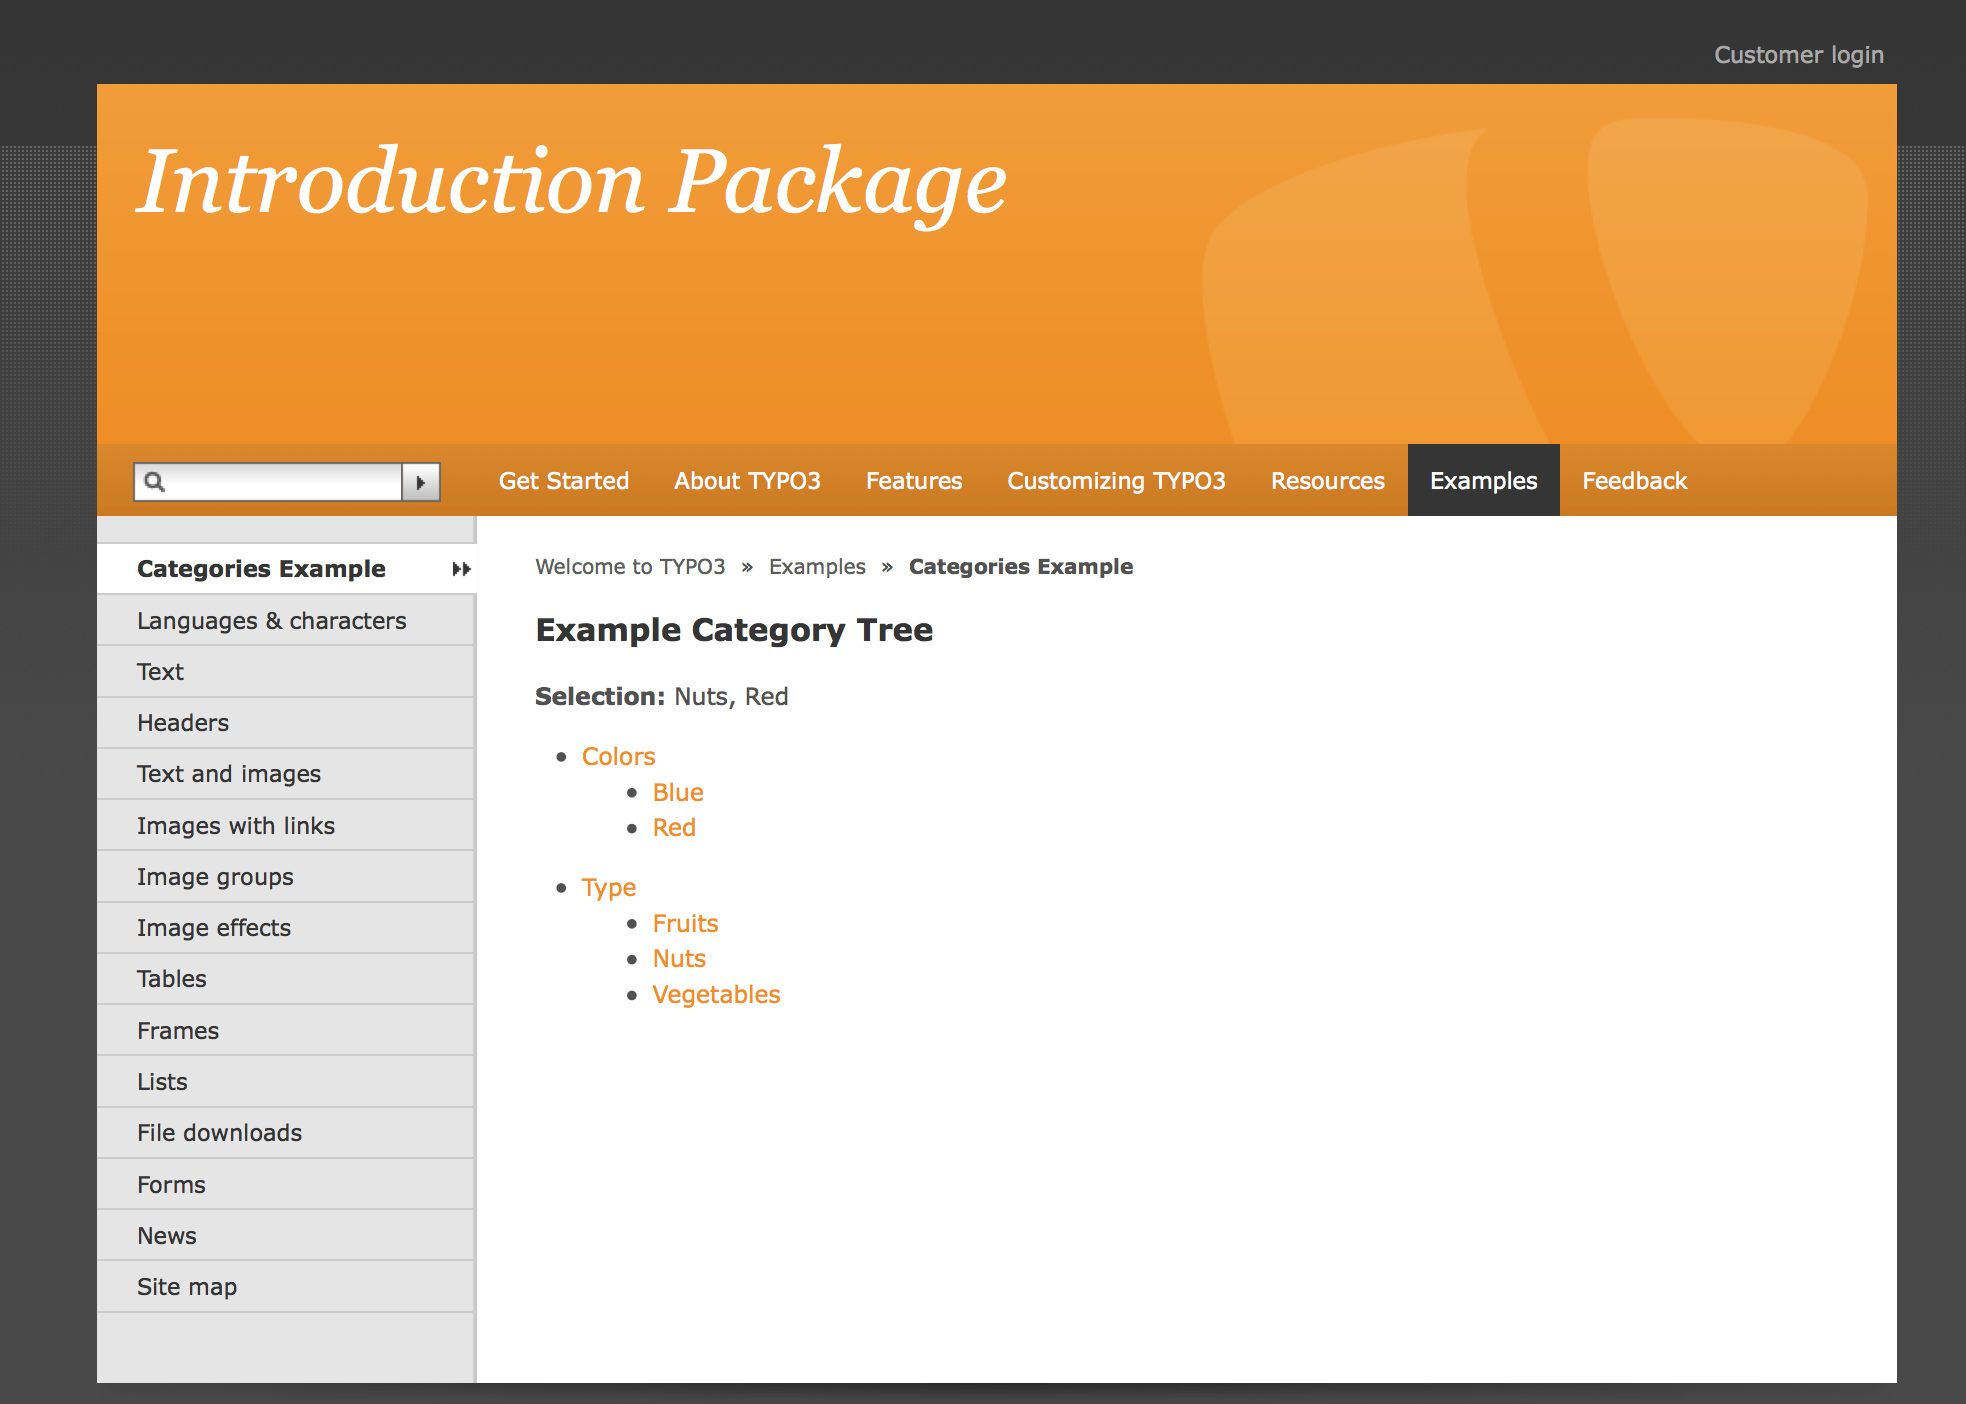
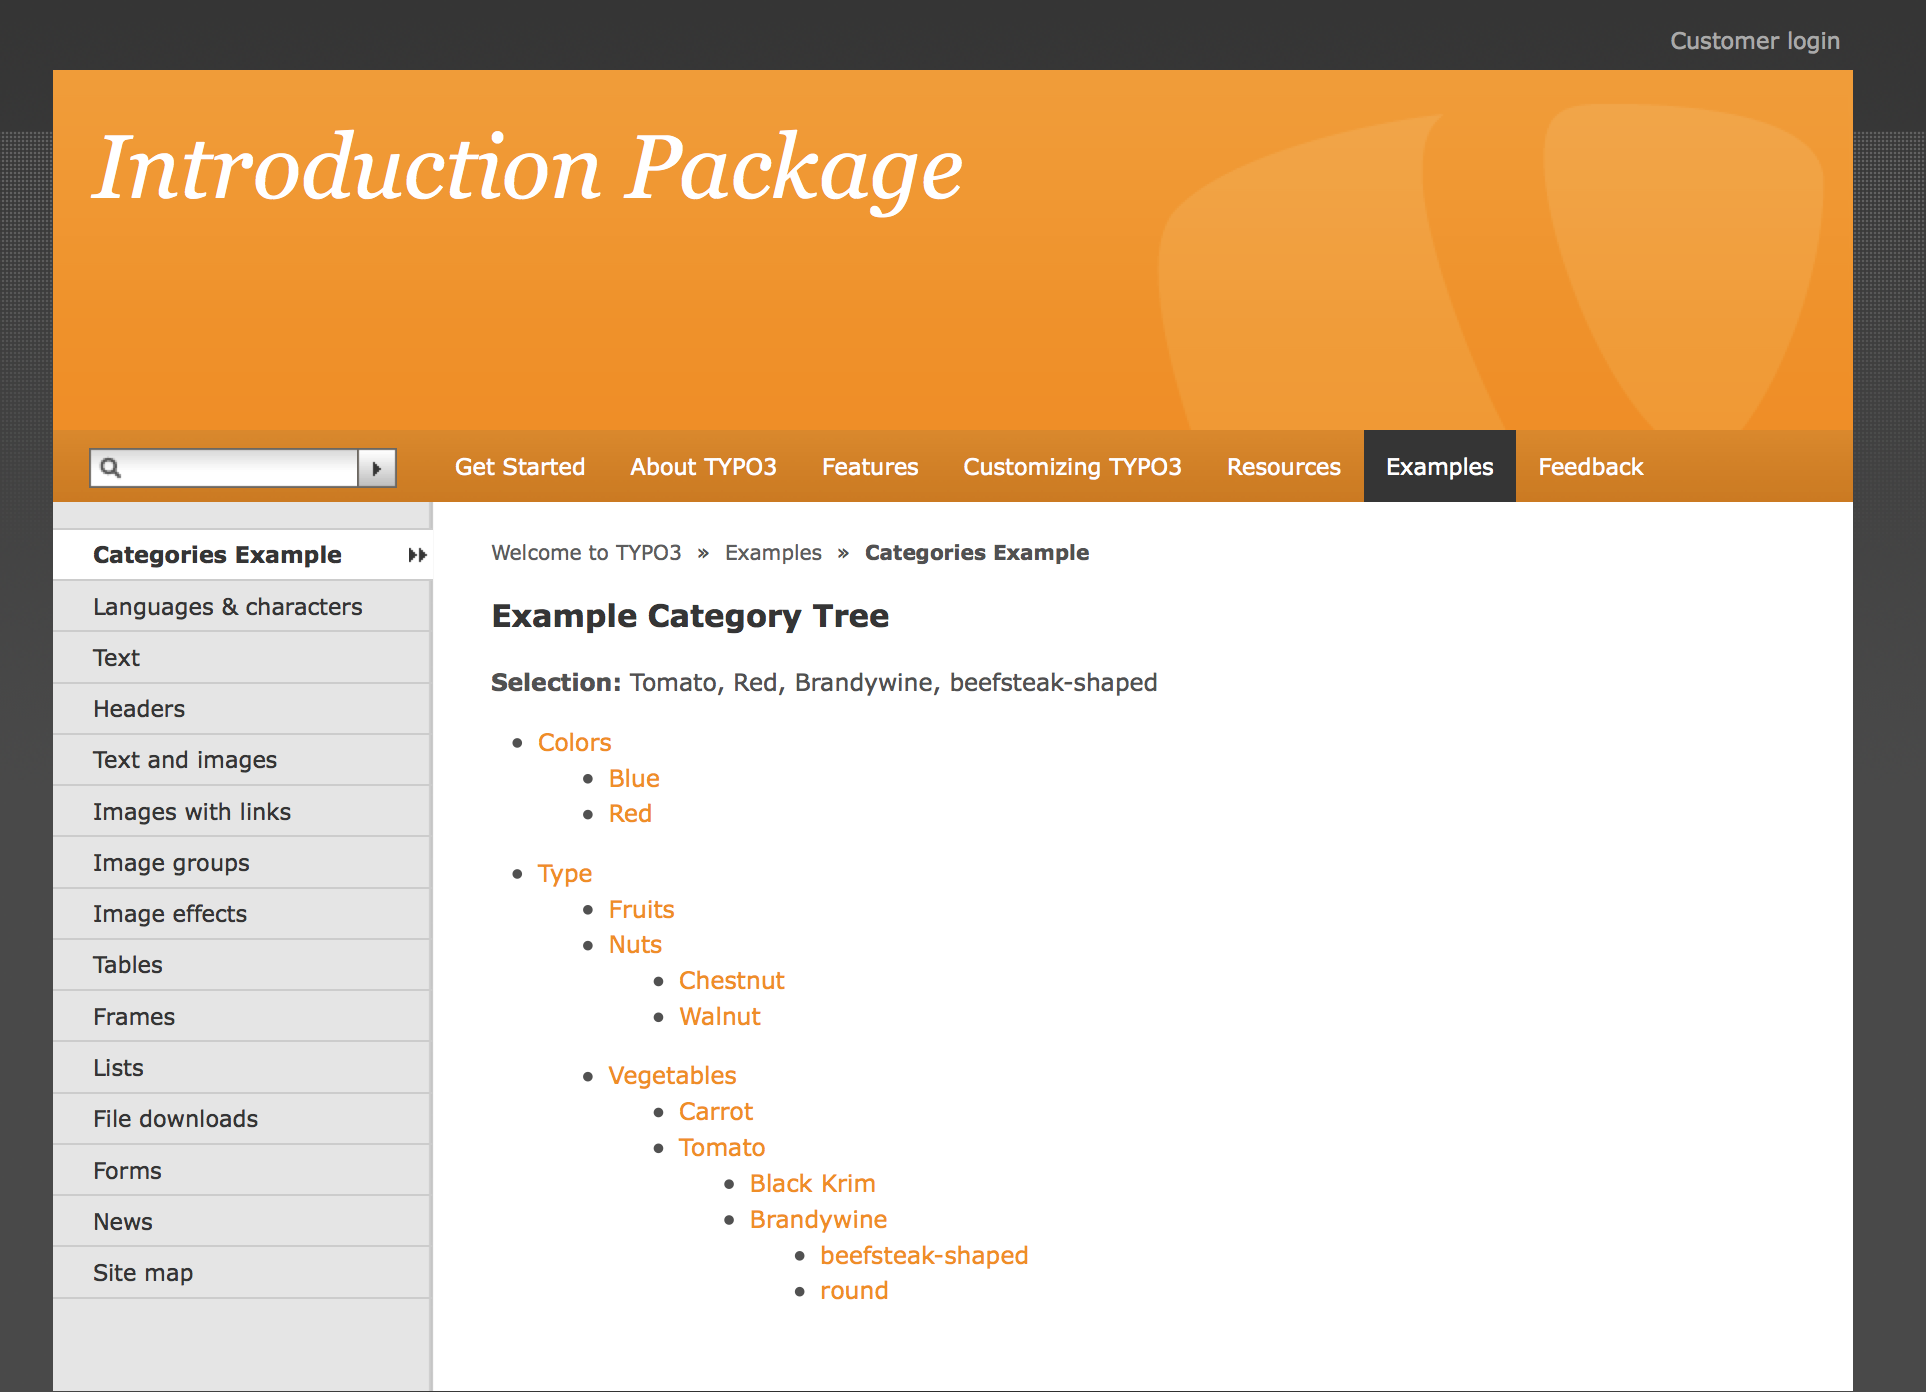
Cleanups and modifications for recursive category tree

Changed region(s): [[0.0, 0.0, 0.9657, 1.0], [0.9346, 0.0927, 0.9969, 0.1853]]

diff --git a/Resources/Private/Templates/Categories/List.html b/Resources/Private/Templates/Categories/List.html
@@ -5,39 +5,81 @@
 </f:if>
 
 <nav class="contentnavigation filter">
+
+	<!-- level 0 -->
 	<ul>
-		<f:for each="{categoryTree}" as="parentCategories" key="label" iteration="iterator">
-			<li>
-				<a class="label" id="s{iterator.cycle}" href="#l{iterator.cycle}">{label}</a>
-				<ul class="filteroptions" id="l{iterator.cycle}">
+		<f:for each="{categoryTree.0}" as="level0Category" iteration="iterator0">
 
-				<f:for each="{parentCategories}" as="childCategory">
+			<li class="{f:if(condition:'{adwlm:InArrayExplode(needle : level0Category.uid, haystack : selectedCategories)}', then : 'selected', else : 'no')}">
 
-					<f:if condition="{adwlm:InArray(needle : childCategory.uid, haystack : selectedCategoriesArray)}">
-						<f:then>
-					<li class="selected">
-						</f:then>
-						<f:else>
-					<li>
-						</f:else>
-					</f:if>
-					<f:if condition="{selectedCategories}">
-						<f:then>
-							<f:link.action action="select" arguments="{category : childCategory.uid, selectedCategories : selectedCategories}" pageUid="{settings.targetPid}">
-								{childCategory.title}
-							</f:link.action>
-						</f:then>
-						<f:else>
-							<f:link.action action="select" arguments="{category : childCategory.uid}" pageUid="{settings.targetPid}">
-								{childCategory.title}
-							</f:link.action>
-						</f:else>
-					</f:if>
-					</li>
+				<f:link.action action="select" arguments="{category : level0Category.uid, selectedCategories : selectedCategories}" pageUid="{settings.targetPid}">
+					{level0Category.title}
+				</f:link.action>
 
-				</f:for>
+				<!-- level 1 -->
+				<f:if condition="{adwlm:ArrayKeyExists(key : level0Category.uid, array : categoryTree.1)}">
+					<ul>
+						<f:for each="{adwlm:ArrayValue(key : level0Category.uid, array : categoryTree.1)}" as="level1Category" iteration="iterator1">
 
-				</ul>
+							<li class="{f:if(condition:'{adwlm:InArrayExplode(needle : level1Category.uid, haystack : selectedCategories)}', then : 'selected', else : 'no')}">
+
+								<f:link.action action="select" arguments="{category : level1Category.uid, selectedCategories : selectedCategories}" pageUid="{settings.targetPid}" class="label">
+									{level1Category.title}
+								</f:link.action>
+
+								<!-- level 2 -->
+								<f:if condition="{adwlm:ArrayKeyExists(key : level1Category.uid, array : categoryTree.2)}">
+									<ul>
+										<f:for each="{adwlm:ArrayValue(key : level1Category.uid, array : categoryTree.2)}" as="level2Category" iteration="iterator2">
+
+											<li class="{f:if(condition:'{adwlm:InArrayExplode(needle : level2Category.uid, haystack : selectedCategories)}', then : 'selected', else : 'no')}">
+
+												<f:link.action action="select" arguments="{category : level2Category.uid, selectedCategories : selectedCategories}" pageUid="{settings.targetPid}" class="label">
+													{level2Category.title}
+												</f:link.action>
+
+												<!-- level 3 -->
+												<f:if condition="{adwlm:ArrayKeyExists(key : level2Category.uid, array : categoryTree.3)}">
+													<ul>
+														<f:for each="{adwlm:ArrayValue(key : level2Category.uid, array : categoryTree.3)}" as="level3Category" iteration="iterator3">
+
+															<li class="{f:if(condition:'{adwlm:InArrayExplode(needle : level3Category.uid, haystack : selectedCategories)}', then : 'selected', else : 'no')}">
+
+																<f:link.action action="select" arguments="{category : level3Category.uid, selectedCategories : selectedCategories}" pageUid="{settings.targetPid}" class="label">
+																	{level3Category.title}
+																</f:link.action>
+
+																<!-- level 4 -->
+																<f:if condition="{adwlm:ArrayKeyExists(key : level3Category.uid, array : categoryTree.4)}">
+																	<ul>
+																		<f:for each="{adwlm:ArrayValue(key : level3Category.uid, array : categoryTree.4)}" as="level4Category" iteration="iterator4">
+
+																			<li class="{f:if(condition:'{adwlm:InArrayExplode(needle : level4Category.uid, haystack : selectedCategories)}', then : 'selected', else : 'no')}">
+
+																				<f:link.action action="select" arguments="{category : level4Category.uid, selectedCategories : selectedCategories}" pageUid="{settings.targetPid}" class="label">
+																					{level4Category.title}
+																				</f:link.action>
+
+																			</li>
+																		</f:for>
+																	</ul>
+																</f:if>
+
+															</li>
+														</f:for>
+													</ul>
+												</f:if>
+
+											</li>
+										</f:for>
+									</ul>
+								</f:if>
+
+							</li>
+						</f:for>
+					</ul>
+				</f:if>
+
 			</li>
 		</f:for>
 	</ul>

diff --git a/Classes/Controller/CategoriesController.php b/Classes/Controller/CategoriesController.php
@@ -47,7 +47,7 @@ class CategoriesController extends \TYPO3\CMS\Extbase\Mvc\Controller\ActionContr
 	 */
 	public function listAction() {
 
-		$parentCategoryUids = \TYPO3\CMS\Core\Utility\GeneralUtility::trimExplode(',', $this->settings['parentCategories']);
+		$levelCategoryUids = \TYPO3\CMS\Core\Utility\GeneralUtility::trimExplode(',', $this->settings['parentCategories']);
 
 		if ($this->settings['categories2skip']) {
 			$categories2skip = \TYPO3\CMS\Core\Utility\GeneralUtility::trimExplode(',', $this->settings['categories2skip']);
@@ -55,26 +55,46 @@ class CategoriesController extends \TYPO3\CMS\Extbase\Mvc\Controller\ActionContr
 
 		$categoryTree = array();
 
-		foreach ($parentCategoryUids as $parentCategoryUid) {
-			$parentCategory = $this->categoriesRepository->findByUid($parentCategoryUid);
-			$categoryTree[$parentCategory->getTitle()] = $this->categoriesRepository->findByParent($parentCategoryUid, $categories2skip)->toArray();
+			// builds the category tree as two dimensional array - the keys represent the level of recursion, the values are
+			// arrays of child categories per level bound together by the uid of their parent
+		for ($i = 0; $i <= $this->settings['recursive']; $i++) {
+			if ($i === 0) {
+				foreach ($levelCategoryUids as $currentCategoryUid) {
+					$parent = $this->categoriesRepository->findByUid($currentCategoryUid);
+					$categoryTree[$i][] = $parent;
+				}
+			} else {
+				$newLevelCategoryUids = array();
+				foreach ($levelCategoryUids as $currentCategoryUid) {
+					$parent = $this->categoriesRepository->findByUid($currentCategoryUid);
+					$children = $this->categoriesRepository->findByParent($currentCategoryUid, $categories2skip);
+					if ($children->count() > 0) {
+						$categoryTree[$i][$parent->getUid()] = $children;
+						foreach ($children as $child) {
+							$newLevelCategoryUids[] = $child->getUid();
+						}
+					}
+				}
+				$levelCategoryUids = $newLevelCategoryUids;
+			}
 		}
 
 		$this->view->assign('categoryTree', $categoryTree);
 
+			// assign the selected categories, as CSV list for links and as array holding selected category objects for easy property access
 		if ($this->request->hasArgument('selectedCategories')) {
-			$selectedCategories = \TYPO3\CMS\Core\Utility\GeneralUtility::trimExplode(',', $this->request->getArgument('selectedCategories'));
+			$selectedCategories = \TYPO3\CMS\Core\Utility\GeneralUtility::trimExplode(',', $this->request->getArgument('selectedCategories'), TRUE);
 			foreach ($selectedCategories as $selectedCategory) {
 				$selectedCategoriesArray[] = $this->categoriesRepository->findByUid($selectedCategory);
 			}
 			$this->view->assign('selectedCategoriesArray', $selectedCategoriesArray);
-			$this->view->assign('selectedCategories', $this->request->getArgument('selectedCategories'));
+			$this->view->assign('selectedCategories', implode(',', $selectedCategories));
 		}
 
-		$this->view->assign('arguments', $this->request->getArguments());
-
+			// set the target pid and reassign the modified settings
 		if (!$this->settings['targetPid']) $this->settings['targetPid'] = $GLOBALS['TSFE']->id;
 		$this->view->assign('settings', $this->settings);
+
 	}
 
 
@@ -93,32 +113,25 @@ class CategoriesController extends \TYPO3\CMS\Extbase\Mvc\Controller\ActionContr
 			// clean arguments for redirect
 		unset($arguments['category']);
 
-			// test if there already are selected categories - then we have to add/substract the current category
-		if (array_key_exists('selectedCategories', $arguments)) {
+		$selectedCategories = \TYPO3\CMS\Core\Utility\GeneralUtility::trimExplode(',', $arguments['selectedCategories'], TRUE);
 
-			$selectedCategories = \TYPO3\CMS\Core\Utility\GeneralUtility::trimExplode(',', $arguments['selectedCategories']);
+			// test if current category was already selected
+		$key = array_search($category->getUid(), $selectedCategories);
 
-				// test if current category was already selected
-			$key = array_search($category->getUid(), $selectedCategories);
-
-				// select action: no key exists, add clicked category to selectedCategories
-			if ($key === FALSE) {
-				$selectedCategories[] = $category->getUid();
-				// unselect action: key/category already exists in selectedCategories
-			} else {
-				unset($selectedCategories[$key]);
-			}
-				// reconstitute the modified argument
-			if (count($selectedCategories) > 0) {
-				$arguments['selectedCategories'] = implode(',', $selectedCategories);
-				// happens when all categories have been unselected
-			} else {
-				unset($arguments['selectedCategories']);
-			}
-
-			// case when a category has been clicked the first time
+			// select action: no key exists, add clicked category to selectedCategories
+		if ($key === FALSE) {
+			$selectedCategories[] = $category->getUid();
+			// unselect action: key/category already exists in selectedCategories
 		} else {
-			$arguments['selectedCategories'] = $category->getUid();
+			unset($selectedCategories[$key]);
+		}
+
+			// reconstitute the modified argument
+		if (count($selectedCategories) > 0) {
+			$arguments['selectedCategories'] = implode(',', $selectedCategories);
+			// happens when all categories have been unselected
+		} else {
+			unset($arguments['selectedCategories']);
 		}
 
 			// redirect to list action which will take over the display of the full list with the selected categories

diff --git a/Classes/Domain/Repository/ExampleRepository.php b/Classes/Domain/Repository/ExampleRepository.php
@@ -1,0 +1,58 @@
+<?php
+namespace ADWLM\CategoriesExample\Domain\Repository;
+/***************************************************************
+ *  Copyright notice
+ *
+ *  (c) 2013 Torsten Schrade <Torsten.Schrade@adwmainz.de>, Academy of Sciences and Literature | Mainz
+ *
+ *  All rights reserved
+ *
+ *  This script is part of the TYPO3 project. The TYPO3 project is
+ *  free software; you can redistribute it and/or modify
+ *  it under the terms of the GNU General Public License as published by
+ *  the Free Software Foundation; either version 2 of the License, or
+ *  (at your option) any later version.
+ *
+ *  The GNU General Public License can be found at
+ *  http://www.gnu.org/copyleft/gpl.html.
+ *
+ *  This script is distributed in the hope that it will be useful,
+ *  but WITHOUT ANY WARRANTY; without even the implied warranty of
+ *  MERCHANTABILITY or FITNESS FOR A PARTICULAR PURPOSE.  See the
+ *  GNU General Public License for more details.
+ *
+ *  This copyright notice MUST APPEAR in all copies of the script!
+ ***************************************************************/
+
+class ExampleRepository extends \TYPO3\CMS\Extbase\Persistence\Repository {
+
+	/**
+	 * Finds objects based on selected categories
+	 *
+	 * @param string $selectedCategories
+	 *
+	 * @return object
+	 */
+	public function findByCategories($selectedCategories) {
+
+		$query = $this->createQuery();
+
+		$constraints = array();
+
+		$selectedCategories = \TYPO3\CMS\Core\Utility\GeneralUtility::trimExplode(',', $selectedCategories);
+
+		foreach($selectedCategories as $selectedCategory) {
+			$constraints[] = $query->contains('categories', $selectedCategory);
+		}
+
+		$query->matching(
+			$query->logicalAnd($constraints)
+		);
+
+		$result = $query->execute();
+
+		return $result;
+	}
+
+}
+?>

diff --git a/Classes/ViewHelpers/InArrayExplodeViewHelper.php b/Classes/ViewHelpers/InArrayExplodeViewHelper.php
@@ -1,0 +1,42 @@
+<?php
+namespace ADWLM\CategoriesExample\ViewHelpers;
+
+/***************************************************************
+*  Copyright notice
+*
+*  (c) 2013 Torsten Schrade <Torsten.Schrade@adwmainz.de>
+*
+*  All rights reserved
+*
+*  This script is part of the TYPO3 project. The TYPO3 project is
+*  free software; you can redistribute it and/or modify
+*  it under the terms of the GNU General Public License as published by
+*  the Free Software Foundation; either version 2 of the License, or
+*  (at your option) any later version.
+*
+*  The GNU General Public License can be found at
+*  http://www.gnu.org/copyleft/gpl.html.
+*
+*  This script is distributed in the hope that it will be useful,
+*  but WITHOUT ANY WARRANTY; without even the implied warranty of
+*  MERCHANTABILITY or FITNESS FOR A PARTICULAR PURPOSE.  See the
+*  GNU General Public License for more details.
+*
+*  This copyright notice MUST APPEAR in all copies of the script!
+***************************************************************/
+
+
+class InArrayExplodeViewHelper extends \TYPO3\CMS\Fluid\Core\ViewHelper\AbstractViewHelper {
+
+	/**
+	 * @param mixed $needle
+	 * @param string $haystack
+	 * 
+	 * @return boolean
+	 */
+	public function render($needle, $haystack) {
+		$haystack = \TYPO3\CMS\Core\Utility\GeneralUtility::trimExplode(',', $haystack, TRUE);
+		return in_array($needle, $haystack);
+	}
+}
+?>

diff --git a/Classes/ViewHelpers/ArrayValueViewHelper.php b/Classes/ViewHelpers/ArrayValueViewHelper.php
@@ -1,0 +1,41 @@
+<?php
+namespace ADWLM\CategoriesExample\ViewHelpers;
+
+/***************************************************************
+*  Copyright notice
+*
+*  (c) 2013 Torsten Schrade <Torsten.Schrade@adwmainz.de>
+*
+*  All rights reserved
+*
+*  This script is part of the TYPO3 project. The TYPO3 project is
+*  free software; you can redistribute it and/or modify
+*  it under the terms of the GNU General Public License as published by
+*  the Free Software Foundation; either version 2 of the License, or
+*  (at your option) any later version.
+*
+*  The GNU General Public License can be found at
+*  http://www.gnu.org/copyleft/gpl.html.
+*
+*  This script is distributed in the hope that it will be useful,
+*  but WITHOUT ANY WARRANTY; without even the implied warranty of
+*  MERCHANTABILITY or FITNESS FOR A PARTICULAR PURPOSE.  See the
+*  GNU General Public License for more details.
+*
+*  This copyright notice MUST APPEAR in all copies of the script!
+***************************************************************/
+
+
+class ArrayValueViewHelper extends \TYPO3\CMS\Fluid\Core\ViewHelper\AbstractViewHelper {
+
+	/**
+	 * @param mixed $key
+	 * @param array $array
+	 * 
+	 * @return boolean
+	 */
+	public function render($key, $array = array()) {
+		return $array[$key];
+	}
+}
+?>

diff --git a/Classes/ViewHelpers/ArrayKeyExistsViewHelper.php b/Classes/ViewHelpers/ArrayKeyExistsViewHelper.php
@@ -26,16 +26,16 @@ namespace ADWLM\CategoriesExample\ViewHelpers;
 ***************************************************************/
 
 
-class InArrayViewHelper extends \TYPO3\CMS\Fluid\Core\ViewHelper\AbstractViewHelper {
+class ArrayKeyExistsViewHelper extends \TYPO3\CMS\Fluid\Core\ViewHelper\AbstractViewHelper {
 
 	/**
-	 * @param mixed $needle
-	 * @param array $haystack
+	 * @param mixed $key
+	 * @param array $array
 	 * 
 	 * @return boolean
 	 */
-	public function render($needle, $haystack = array()) {
-		return in_array($needle, $haystack);
+	public function render($key, $array = array()) {
+		return array_key_exists($key, $array);
 	}
 }
 ?>

diff --git a/ext_localconf.php b/ext_localconf.php
@@ -11,5 +11,4 @@ if (!defined('TYPO3_MODE')) die('Access denied!');
 		'Categories' => 'select',
 	)
 );
-
 ?>
